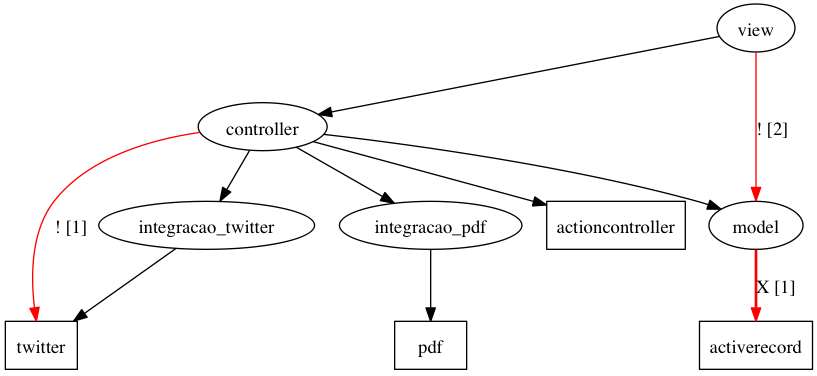
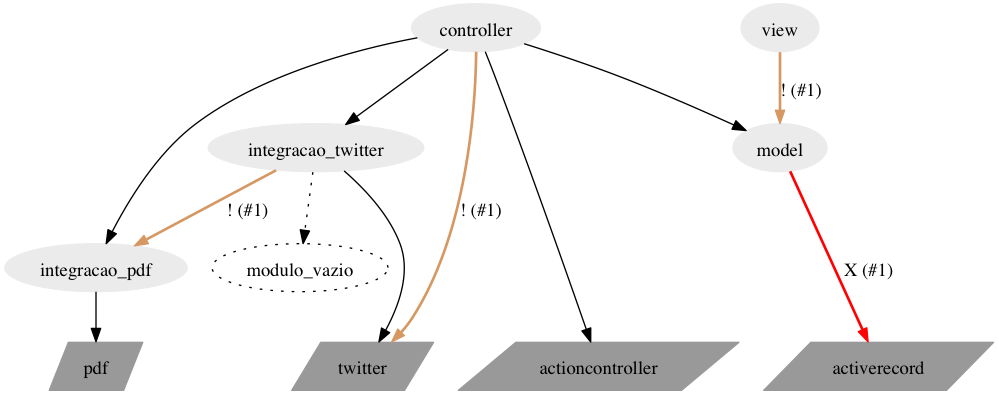
organizing the graph

diff --git a/lib/arch_checker/presenters/graph.rb b/lib/arch_checker/presenters/graph.rb
@@ -7,30 +7,52 @@ module ArchChecker
       
       def render architecture
         modules = architecture.modules
+        
+        g = GraphViz.new(:G)
 
-        g = GraphViz.new( :G, :type => :digraph )
+        g.edge[:color] = "black"
+        g.edge[:weight] = "1"
+        g.edge[:style] = "filled"
+        g.edge[:label] = ""
+        
+        internal = g.subgraph("internal", "label" => "Internal", "color" => "black")
+        
+        external = g.subgraph("external", "label" => "External", "color" => "black", "rank" => "same")
+        
         nodes = {}
-        edges = []
+        
+        internal_nodes = []
+        external_nodes = []
         modules.each do |module_definiton|
           if module_definiton.is_external?
-            nodes[module_definiton.name] = g.add_nodes(module_definiton.name, :shape => "box")
+            nodes[module_definiton.name] = external.add_nodes(module_definiton.name, "shape" => "parallelogram", "color" => "gray60", "style" => "filled")
+            external_nodes << nodes[module_definiton.name]
           else
-            nodes[module_definiton.name] = g.add_nodes(module_definiton.name)
+            if module_definiton.is_empty?
+              nodes[module_definiton.name] = internal.add_nodes(module_definiton.name, "color" => "black", "style" => "dotted")
+            else
+              nodes[module_definiton.name] = internal.add_nodes(module_definiton.name, "color" => "gray92", "style" => "filled")
+            end
+            internal_nodes << nodes[module_definiton.name]
           end
         end
+        
+        edges = {}
+        edges_objs = []
         
         modules.each do |module_definiton|
           module_name = module_definiton.name
           node_origin = nodes[module_name]
-
-          module_definiton.required_modules.each do |required_module_name|
-            node_dest = nodes[required_module_name]
-            edges << g.add_edges(node_origin, node_dest)
-          end
+          edges[module_name] ||= {}
+          edges[module_name][:edges] ||= []
           
-          module_definiton.allowed_modules.each do |allowed_module_name|
-            node_dest = nodes[allowed_module_name]
-            edges << g.add_edges(node_origin, node_dest)
+          module_definiton.dependencies.each do |class_name|
+            module_dest = architecture.module_name class_name
+            if !edges[module_name][:edges].include?(module_dest) && module_dest != module_name
+              edges[module_name][:edges] << module_dest
+              node_dest = nodes[module_dest]
+              edges_objs << internal.add_edges(node_origin, node_dest)
+            end
           end
         end
         
@@ -42,20 +64,20 @@ module ArchChecker
           node_origin = nodes[module_origin]
           node_dest = nodes[module_target]
           node_found = false
-          edges.each do |edge|
+          edges_objs.each do |edge|
             if edge.node_one == module_origin && edge.node_two == module_target
               if contraint_type == ArchChecker::Architecture::ConstraintBreak::ABSENSE
                 edge.set do |e|
-                  e.label = "X [#{architecture.how_many_break(module_origin, ArchChecker::Architecture::ConstraintBreak::ABSENSE)}]"
+                  e.label = "X (##{architecture.how_many_break(module_origin, ArchChecker::Architecture::ConstraintBreak::ABSENSE)})"
                   e.color = "red"
                   e.style = "bold"
                   e.weight = 1
                 end
               else
                 edge.set do |e|
-                  e.label = "! [#{architecture.how_many_break(module_origin, ArchChecker::Architecture::ConstraintBreak::DIVERGENCE)}]"
-                  e.color = "red"
-                  e.weight = 3
+                  e.label = "! (##{architecture.how_many_break(module_origin, ArchChecker::Architecture::ConstraintBreak::DIVERGENCE)})"
+                  e.color = "#d59862"
+                  e.style = "bold"
                 end                
               end
               node_found = true
@@ -66,14 +88,34 @@ module ArchChecker
           if !node_found
             if contraint_type == ArchChecker::Architecture::ConstraintBreak::ABSENSE
               break_count = architecture.how_many_break(module_origin, ArchChecker::Architecture::ConstraintBreak::ABSENSE)
-              edges << g.add_edges(node_origin, node_dest, :color => 'red', :label => "X [#{break_count}]", 'weight' => 1, 'style' => 'bold')
+              edges_objs << g.add_edges(node_origin, node_dest, :color => 'red', :label => "X (##{break_count})", 'weight' => 1, 'style' => 'bold')
             else
               break_count = architecture.how_many_break(module_origin, ArchChecker::Architecture::ConstraintBreak::DIVERGENCE)
-              edges << g.add_edges(node_origin, node_dest, :color => 'red', :label => "! [#{break_count}]", 'weight' => 3)
+              edges_objs << g.add_edges(node_origin, node_dest, :color => 'red', :label => "! (##{break_count})", 'weight' => 3)
             end
           end
         end
         
+        modules.each do |module_definiton|
+          module_origin = module_definiton.name
+          node_origin = nodes[module_origin]
+          
+          module_definiton.allowed_modules.each do |allowed_module_name|
+            module_target = allowed_module_name
+            node_dest = nodes[allowed_module_name]
+            edge_found = false
+            edges_objs.each do |edge|
+              if edge.node_one == module_origin && edge.node_two == module_target
+                edge_found = true
+                break
+              end
+            end
+            if !edge_found
+              internal.add_edges(node_origin, node_dest, :style => 'dotted')
+            end
+          end
+        end
+                
         g.output( :png => "architecture.png" )
       end
       

diff --git a/lib/arch_checker/architecture/module_definition.rb b/lib/arch_checker/architecture/module_definition.rb
@@ -37,6 +37,7 @@ module ArchChecker
       end
                         
       def parse_constraints definitions
+        check_constraints definitions
         ALLOWED_CONSTRAINTS.each do |constraint|
           constraint_definition = definitions[constraint]
           constraint_definition = '' if constraint_definition.nil?
@@ -82,7 +83,11 @@ module ArchChecker
       end
       
       def is_external?
-        @files.empty?
+        !@gems.empty?
+      end
+      
+      def is_empty?
+        @classes.empty?
       end
       
       def verify_constraints architecture
@@ -165,6 +170,10 @@ module ArchChecker
       end
 
 private
+  
+      def check_constraints definitions
+        raise ArchChecker::MultipleConstraints if definitions['allowed'] && !definitions['allowed'].empty? && definitions['forbidden'] && !definitions['forbidden'].empty?
+      end
 
     end
   end

diff --git a/lib/arch_checker/architecture/parser.rb b/lib/arch_checker/architecture/parser.rb
@@ -16,7 +16,12 @@ module ArchChecker
       def parse
         parsed_yaml = yaml_parser.load_file @config_file
         parsed_yaml.each do |module_name, definitions|
-          module_definition = ArchChecker::Architecture::ModuleDefinition.new(module_name, definitions, @base_path)
+          begin
+            module_definition = ArchChecker::Architecture::ModuleDefinition.new(module_name, definitions, @base_path)
+          rescue ArchChecker::MultipleConstraints => e
+            STDOUT.puts "The config file is not right: #{e.msg} | err_code: #{e.status_code} | module_definition: #{module_name}"
+            exit(e.status_code)
+          end          
           @modules << module_definition
         end        
       end

diff --git a/lib/arch_checker.rb b/lib/arch_checker.rb
@@ -28,5 +28,17 @@ module ArchChecker
       @constraints_breaks = @architecture.verify
     end
   end
+  
+  class Error < StandardError
+    def self.status_code(code)
+      define_method(:status_code) { code }
+    end
+    
+    def self.msg(msg)
+      define_method(:msg) { msg }
+    end
+  end
+  
+  class MultipleConstraints < ArchChecker::Error; status_code(2) ; msg("Allowed and Forbidden in same module definition") end
 end
 
